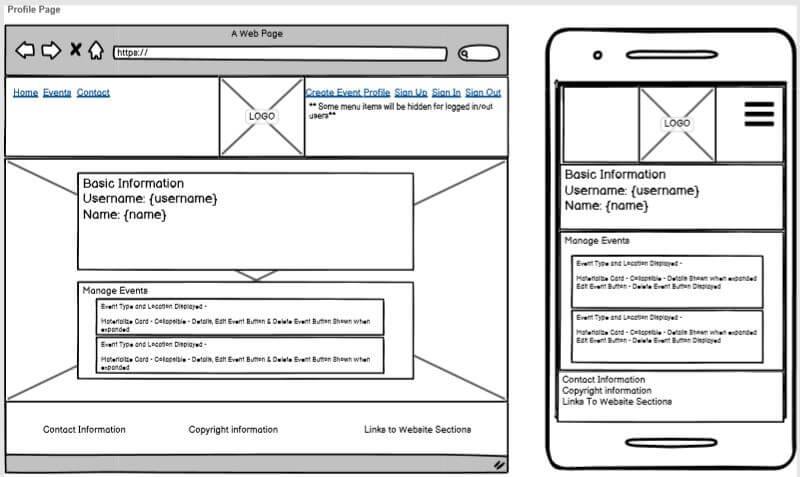
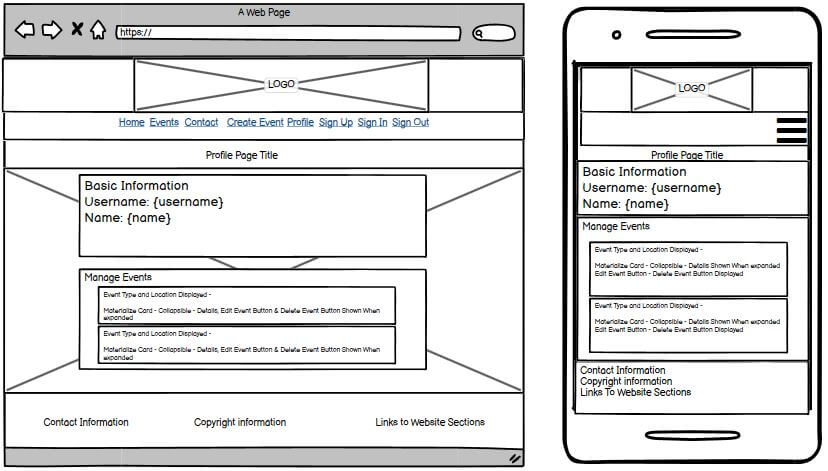
Updated readme and wireframes with final design as well as leaving links to original. Comments on tests.py fixed to be consistent

diff --git a/tests.py b/tests.py
@@ -20,7 +20,7 @@ app_module.mongo = mongo
 
 
 class AppTestCase(unittest.TestCase):
-    """Clean the DB before test"""
+    """Clean the database before test"""
     def setUp(self):
         self.client = app.test_client()
         with app.app_context():
@@ -66,7 +66,7 @@ class AppTests(AppTestCase):
         assert 'Sign Up' in data
 
     def test_signup_functionality(self):
-        """Test signup"""
+        """Test signup functionality"""
         res = self.client.post('/signup', data=dict(
             username='orange',
             password='123Orange',
@@ -77,7 +77,7 @@ class AppTests(AppTestCase):
 
 
 class LoggedInTests(AppTestCase):
-    """Separate class to clean DB with no cross referencing"""
+    """Separate class to clean database with no cross referencing"""
     def setUp(self):
         """
         Clean the DB, add new user and event and check user and new event
@@ -156,16 +156,14 @@ class LoggedInTests(AppTestCase):
         assert 'Club Hosted Event' in data
 
     def test_delete_event(self):
-        """Test delete event functionality"""
-        # Search for id
-        # Only one object is in the DB added during test suite
+        """Test delete event functionality redirect and ensure
+        object is deleted from the database"""
         event = mongo.db.events.find_one()
         _id = event.get('_id')
         assert ObjectId.is_valid(_id)
-        # Delete the event
+
         response = self.client.get(f'/delete_event/{_id}')
-        # Check redirection
         assert response.status == '302 FOUND'
+
         event = mongo.db.events.find_one({'_id': ObjectId(_id)})
-        # Check event deleted
         assert event is None

diff --git a/README.md b/README.md
@@ -193,7 +193,7 @@ This page will display the next six motorbike events from today's date on a mate
 make use of space, these events will be collapsable and can be expanded to view details on click.
 
 A search box will be displayed on screen which will allow users to search for events based on Date, Event 
-Type or Location. This will return a filtered, full list of future events for the current search criteria. 
+Type or Location. This will return a filtered, full list events for the current search criteria. 
 This will be implemented by using a database index that will be created on the MongoDB collection events.
 
 User Story:
@@ -235,41 +235,38 @@ the main website without needing to use the browser navigation buttons.
 
 ### **The Skeleton Plane**
 #### Wireframes
-[Home](readme_images/wireframes/home.pdf)
 
-![Home](readme_images/wireframes/home.JPG)
+## Final Wireframes
+Home:<br>
+![Home](readme_images/wireframes/home.JPG)<br>
+404:<br>
+![404](readme_images/wireframes/404.JPG)<br>
+Contact:<br>
+![Contact](readme_images/wireframes/contact.JPG)<br>
+Create Event:<br>
+![Create Event](readme_images/wireframes/create_event.JPG)<br>
+Edit Event:<br>
+![Edit Event](readme_images/wireframes/edit_event.JPG)<br>
+Events:<br>
+![Events](readme_images/wireframes/events.JPG)<br>
+Profile<br>
+![Profile](readme_images/wireframes/profile.JPG)<br>
+Sign In:<br>
+![Sign In](readme_images/wireframes/signin.JPG)<br>
+Sign Up<br>
+![Sign Up](readme_images/wireframes/signup.JPG)<br>
 
-[404](readme_images/wireframes/404.pdf)
+## Original Design Wireframes
+* [Home](readme_images/wireframes/original/home.pdf)
+* [404](readme_images/wireframes/original/404.pdf)
+* [Contact](readme_images/wireframes/original/contact.pdf)
+* [Create Event](readme_images/wireframes/original/create_event.pdf)
+* [Edit Event](readme_images/wireframes/original/edit_event.pdf)
+* [Events](readme_images/wireframes/original/events.pdf)
+* [Profile](readme_images/wireframes/original/profile.pdf)
+* [Sign In](readme_images/wireframes/original/signin.pdf)
+* [Sign Up](readme_images/wireframes/original/signup.pdf)
 
-![404](readme_images/wireframes/404.JPG)
-
-[Contact](readme_images/wireframes/contact.pdf)
-
-![Contact](readme_images/wireframes/contact.JPG)
-
-[Create Event](readme_images/wireframes/create_event.pdf)
-
-![Create Event](readme_images/wireframes/create_event.JPG)
-
-[Edit Event](readme_images/wireframes/edit_event.pdf)
-
-![Edit Event](readme_images/wireframes/edit_event.JPG)
-
-[Events](readme_images/wireframes/events.pdf)
-
-![Events](readme_images/wireframes/events.JPG)
-
-[Profile](readme_images/wireframes/profile.pdf)
-
-![Profile](readme_images/wireframes/profile.JPG)
-
-[Sign In](readme_images/wireframes/signin.pdf)
-
-![Sign In](readme_images/wireframes/signin.JPG)
-
-[Sign Up](readme_images/wireframes/signup.pdf)
-
-![Sign Up](readme_images/wireframes/signup.JPG)
 
 #### Database Design
 MongoDB Object format examples:
@@ -341,11 +338,14 @@ not look well on the page, it left too much white space, nav items were too spac
 reading about UX Design standards or navigations, it did not really confirm to norms or user friendly design. The design 
 was then changed to have a banner with a large logo across the top of the page, with the navigation items sat underneath.
 
-Original design and wireframes had the text input used to search events as a dual box that could search by either 
-location or date. This proved difficult to implement and was agreed upon with the client to add an additional date 
+Original design and wireframes had the drop down input used to search events as a dual box that could search by either 
+location or event_type. This proved difficult to implement and was agreed upon with the client to add an additional date 
 picker search field.<br>
 Search fields were also changed to be single column fields. The reasoning for this was reading this 
 [article](https://cxl.com/blog/form-design-best-practices/) on form best practices.
+
+Changes in design from the original wireframes can be found in the Skeleton Wireframes section as both final and original 
+wireframes are linked.
 
 Additional verification was addd to the event deletion button to take user confirmation they want to delete the event. 
 This was added so the user doesn't accidentally delete an event and was implemented using a modal with the option to 
